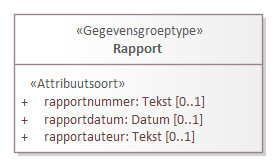
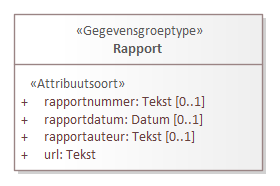
Conceptualmodel-MilieuhygienischbodemonderzoekSAD-0.2-1-20230126-20230627-064438

diff --git a/data/SAD-cat.msword.html b/data/SAD-cat.msword.html
@@ -15,7 +15,7 @@
    <body>
       <p>Conceptual model/Milieuhygienisch bodemonderzoek SAD/20230126</p>
       <p>Imvertor: 2.0.0</p>
-      <p>Model release: Conceptualmodel-MilieuhygienischbodemonderzoekSAD-0.2-1-20230126-20230626-140246</p>
+      <p>Model release: Conceptualmodel-MilieuhygienischbodemonderzoekSAD-0.2-1-20230126-20230627-064438</p>
       <hr>
       <section>
          <h1>Artikel 1 Definitie van registratieobject, entiteiten en attributen</h1>
@@ -74,7 +74,7 @@
             <h2>Entiteiten en attributen</h2>
             <section id=""><a class="anchor" id="graph_EAID_ABAADB49_C747_4775_A739_CC832CAD59F1"></a><a class="anchor" id="global_class_Model_Bodemonderzoek"></a><section id="global_class_Model_Bodemonderzoek">
                   <h3>   Bodemonderzoek</h3>
-                  <div class="imageinfo "><img src="Images/EAID_65BDD0DF_5A17_4756_8FD6_F029CE4A290E.png" usemap="#imagemap-EAID_65BDD0DF_5A17_4756_8FD6_F029CE4A290E" alt="Diagram "><map name="imagemap-EAID_65BDD0DF_5A17_4756_8FD6_F029CE4A290E"><area shape="rect" alt="AnalysemonsterGrondGemengd" coords="29,785,217,839" href="#graph_EAID_E7A3C99D_3348_4875_9BD5_4E0481E72C54"><area shape="rect" alt="Boring" coords="386,785,547,839" href="#graph_EAID_40FFF5B9_99C5_4c21_9D72_A3D1DD3C857F"><area shape="rect" alt="Registratieobject" coords="127,14,435,188" href="#graph_EAID_67DBE718_38E0_4ead_8649_72EA0B4A2355"><area shape="rect" alt="Rapport" coords="591,535,948,674" href="#graph_EAID_1A8201CD_7E4B_4216_916D_D3AEB7E30188"><area shape="rect" alt="Registratiegeschiedenis" coords="591,206,948,505" href="#graph_EAID_12E1A894_EB8E_4245_B745_ED1899B2A278"><area shape="rect" alt="Gestandaardiseerde locatie" coords="591,14,948,176" href="#graph_EAID_69CFF81C_3747_43f5_8293_34D1745DEB53"><area shape="rect" alt="Bodemonderzoek" coords="14,267,547,625" href="#graph_EAID_ABAADB49_C747_4775_A739_CC832CAD59F1"></map><p><b></b></p>
+                  <div class="imageinfo "><img src="Images/EAID_65BDD0DF_5A17_4756_8FD6_F029CE4A290E.png" usemap="#imagemap-EAID_65BDD0DF_5A17_4756_8FD6_F029CE4A290E" alt="Diagram "><map name="imagemap-EAID_65BDD0DF_5A17_4756_8FD6_F029CE4A290E"><area shape="rect" alt="AnalysemonsterGrondGemengd" coords="29,785,217,839" href="#graph_EAID_E7A3C99D_3348_4875_9BD5_4E0481E72C54"><area shape="rect" alt="Boring" coords="386,785,547,839" href="#graph_EAID_40FFF5B9_99C5_4c21_9D72_A3D1DD3C857F"><area shape="rect" alt="Registratieobject" coords="127,14,435,188" href="#graph_EAID_67DBE718_38E0_4ead_8649_72EA0B4A2355"><area shape="rect" alt="Rapport" coords="591,535,948,692" href="#graph_EAID_1A8201CD_7E4B_4216_916D_D3AEB7E30188"><area shape="rect" alt="Registratiegeschiedenis" coords="591,206,948,505" href="#graph_EAID_12E1A894_EB8E_4245_B745_ED1899B2A278"><area shape="rect" alt="Gestandaardiseerde locatie" coords="591,14,948,176" href="#graph_EAID_69CFF81C_3747_43f5_8293_34D1745DEB53"><area shape="rect" alt="Bodemonderzoek" coords="14,267,547,625" href="#graph_EAID_ABAADB49_C747_4775_A739_CC832CAD59F1"></map><p><b></b></p>
                   </div>
                   <table style="width: 100%;">
                      <colgroup style="width: 30%;"></colgroup>
@@ -886,7 +886,7 @@
                            </tr>
                         </tbody>
                      </table>
-                     </section><a class="anchor" id="detail_d101222e4608"></a><section id="detail_d101222e4608">
+                     </section><a class="anchor" id="detail_d101603e4608"></a><section id="detail_d101603e4608">
                      <h4>  registratiegeschiedenis</h4>
                      <table style="width: 100%;">
                         <colgroup style="width: 30%;"></colgroup>
@@ -919,7 +919,7 @@
                            </tr>
                         </tbody>
                      </table>
-                  </section><a class="anchor" id="detail_d101222e4793"></a><section id="detail_d101222e4793">
+                  </section><a class="anchor" id="detail_d101603e4793"></a><section id="detail_d101603e4793">
                      <h4>  gestandaardiseerde locatie bodemonderzoek</h4>
                      <table style="width: 100%;">
                         <colgroup style="width: 30%;"></colgroup>
@@ -962,7 +962,7 @@
                            </tr>
                         </tbody>
                      </table>
-                  </section><a class="anchor" id="detail_d101222e5027"></a><section id="detail_d101222e5027">
+                  </section><a class="anchor" id="detail_d101603e5027"></a><section id="detail_d101603e5027">
                      <h4>  rapport</h4>
                      <table style="width: 100%;">
                         <colgroup style="width: 30%;"></colgroup>
@@ -1813,7 +1813,7 @@
                      </section>
                </section><a class="anchor" id="graph_EAID_1A8201CD_7E4B_4216_916D_D3AEB7E30188"></a><a class="anchor" id="global_class_Model_Rapport"></a><section id="global_class_Model_Rapport">
                   <h3>   Rapport</h3>
-                  <div class="imageinfo "><img src="Images/EAID_DC463C82_956E_4dc7_B000_4976CD61ED1C.png" usemap="#imagemap-EAID_DC463C82_956E_4dc7_B000_4976CD61ED1C" alt="Diagram "><map name="imagemap-EAID_DC463C82_956E_4dc7_B000_4976CD61ED1C"><area shape="rect" alt="Rapport" coords="14,14,263,153" href="#graph_EAID_1A8201CD_7E4B_4216_916D_D3AEB7E30188"></map><p><b></b></p>
+                  <div class="imageinfo "><img src="Images/EAID_DC463C82_956E_4dc7_B000_4976CD61ED1C.png" usemap="#imagemap-EAID_DC463C82_956E_4dc7_B000_4976CD61ED1C" alt="Diagram "><map name="imagemap-EAID_DC463C82_956E_4dc7_B000_4976CD61ED1C"><area shape="rect" alt="Rapport" coords="14,14,263,171" href="#graph_EAID_1A8201CD_7E4B_4216_916D_D3AEB7E30188"></map><p><b></b></p>
                   </div>
                   <table style="width: 100%;">
                      <colgroup style="width: 30%;"></colgroup>
@@ -1975,6 +1975,35 @@
                                  <p>De gegevens die alle registratieobjecten gemeenschappelijk hebben zijn in het domeinmodel
                                     gegroepeerd in de entiteit Registratieobject</p>
                                  </td>
+                           </tr>
+                        </tbody>
+                     </table>
+                     </section><a class="anchor" id="detail_attribute_Model_Rapport_url"></a><section id="detail_attribute_Model_Rapport_url">
+                     <h4>  url</h4>
+                     
+                     <table style="width: 100%;">
+                        <colgroup style="width: 30%;"></colgroup>
+                        <colgroup style="width: 70%;"></colgroup>
+                        <tbody>
+                           <tr>
+                              <th>Type gegeven</th>
+                              <td>Attribuut van Rapport</td>
+                           </tr>
+                           <tr>
+                              <th>Juridische status</th>
+                              <td>Authentiek</td>
+                           </tr>
+                           <tr>
+                              <th>Kardinaliteit</th>
+                              <td>1</td>
+                           </tr>
+                           <tr>
+                              <th>Domein</th>
+                              <td></td>
+                           </tr>
+                           <tr>
+                              <th>&nbsp;&nbsp;Naam</th>
+                              <td>Tekst </td>
                            </tr>
                         </tbody>
                      </table>
@@ -2247,7 +2276,7 @@
                            </tr>
                         </tbody>
                      </table>
-                     </section><a class="anchor" id="detail_d101222e10155"></a><section id="detail_d101222e10155">
+                     </section><a class="anchor" id="detail_d101603e10274"></a><section id="detail_d101603e10274">
                      <h4>  aangeleverde verticale positie</h4>
                      <table style="width: 100%;">
                         <colgroup style="width: 30%;"></colgroup>
@@ -3161,7 +3190,7 @@
                            </tr>
                         </tbody>
                      </table>
-                     </section><a class="anchor" id="detail_d101222e13166"></a><section id="detail_d101222e13166">
+                     </section><a class="anchor" id="detail_d101603e13285"></a><section id="detail_d101603e13285">
                      <h4>  grond</h4>
                      <table style="width: 100%;">
                         <colgroup style="width: 30%;"></colgroup>
@@ -3203,7 +3232,7 @@
                            </tr>
                         </tbody>
                      </table>
-                  </section><a class="anchor" id="detail_d101222e13398"></a><section id="detail_d101222e13398">
+                  </section><a class="anchor" id="detail_d101603e13517"></a><section id="detail_d101603e13517">
                      <h4>  kleur</h4>
                      <table style="width: 100%;">
                         <colgroup style="width: 30%;"></colgroup>
@@ -3236,7 +3265,7 @@
                            </tr>
                         </tbody>
                      </table>
-                  </section><a class="anchor" id="detail_d101222e13583"></a><section id="detail_d101222e13583">
+                  </section><a class="anchor" id="detail_d101603e13702"></a><section id="detail_d101603e13702">
                      <h4>  bijzonder bestanddeel</h4>
                      <table style="width: 100%;">
                         <colgroup style="width: 30%;"></colgroup>
@@ -4723,7 +4752,7 @@
                            </tr>
                         </tbody>
                      </table>
-                     </section><a class="anchor" id="detail_d101222e19506"></a><section id="detail_d101222e19506">
+                     </section><a class="anchor" id="detail_d101603e19625"></a><section id="detail_d101603e19625">
                      <h4>  aangeleverde verticale positie</h4>
                      <table style="width: 100%;">
                         <colgroup style="width: 30%;"></colgroup>
@@ -4820,8 +4849,7 @@
                            <td>
                               
                               <p>Het deel van het milieuhygiënisch bodemonderzoek dat betrekking heeft op de monstername
-                                 van het grondwater en het in het veld uitvoeren van metingen die de toestand van het
-                                 grondwater en de samenstelling ervan karakteriseren.</p>
+                                 van het grondwater.</p>
                               </td>
                         </tr>
                      </tbody>
@@ -5155,7 +5183,7 @@
                            </tr>
                         </tbody>
                      </table>
-                     </section><a class="anchor" id="detail_d101222e21167"></a><section id="detail_d101222e21167">
+                     </section><a class="anchor" id="detail_d101603e21286"></a><section id="detail_d101603e21286">
                      <h4>  kleur</h4>
                      <table style="width: 100%;">
                         <colgroup style="width: 30%;"></colgroup>

diff --git a/data/SAD-cat.respec.html b/data/SAD-cat.respec.html
@@ -50,7 +50,7 @@
    <section id="">
       <h2>Entiteittypen en attributen   </h2><a class="anchor" id="graph_EAID_ABAADB49_C747_4775_A739_CC832CAD59F1"></a><a class="anchor" id="global_class_Model_Bodemonderzoek"></a><section id="global_class_Model_Bodemonderzoek">
          <h3>   Bodemonderzoek</h3>
-         <div class="imageinfo "><img src="data/Images/EAID_65BDD0DF_5A17_4756_8FD6_F029CE4A290E.png" usemap="#imagemap-EAID_65BDD0DF_5A17_4756_8FD6_F029CE4A290E" alt="Diagram "><map name="imagemap-EAID_65BDD0DF_5A17_4756_8FD6_F029CE4A290E"><area shape="rect" alt="AnalysemonsterGrondGemengd" coords="29,785,217,839" href="#graph_EAID_E7A3C99D_3348_4875_9BD5_4E0481E72C54"><area shape="rect" alt="Boring" coords="386,785,547,839" href="#graph_EAID_40FFF5B9_99C5_4c21_9D72_A3D1DD3C857F"><area shape="rect" alt="Registratieobject" coords="127,14,435,188" href="#graph_EAID_67DBE718_38E0_4ead_8649_72EA0B4A2355"><area shape="rect" alt="Rapport" coords="591,535,948,674" href="#graph_EAID_1A8201CD_7E4B_4216_916D_D3AEB7E30188"><area shape="rect" alt="Registratiegeschiedenis" coords="591,206,948,505" href="#graph_EAID_12E1A894_EB8E_4245_B745_ED1899B2A278"><area shape="rect" alt="Gestandaardiseerde locatie" coords="591,14,948,176" href="#graph_EAID_69CFF81C_3747_43f5_8293_34D1745DEB53"><area shape="rect" alt="Bodemonderzoek" coords="14,267,547,625" href="#graph_EAID_ABAADB49_C747_4775_A739_CC832CAD59F1"></map><p><b></b></p>
+         <div class="imageinfo "><img src="data/Images/EAID_65BDD0DF_5A17_4756_8FD6_F029CE4A290E.png" usemap="#imagemap-EAID_65BDD0DF_5A17_4756_8FD6_F029CE4A290E" alt="Diagram "><map name="imagemap-EAID_65BDD0DF_5A17_4756_8FD6_F029CE4A290E"><area shape="rect" alt="AnalysemonsterGrondGemengd" coords="29,785,217,839" href="#graph_EAID_E7A3C99D_3348_4875_9BD5_4E0481E72C54"><area shape="rect" alt="Boring" coords="386,785,547,839" href="#graph_EAID_40FFF5B9_99C5_4c21_9D72_A3D1DD3C857F"><area shape="rect" alt="Registratieobject" coords="127,14,435,188" href="#graph_EAID_67DBE718_38E0_4ead_8649_72EA0B4A2355"><area shape="rect" alt="Rapport" coords="591,535,948,692" href="#graph_EAID_1A8201CD_7E4B_4216_916D_D3AEB7E30188"><area shape="rect" alt="Registratiegeschiedenis" coords="591,206,948,505" href="#graph_EAID_12E1A894_EB8E_4245_B745_ED1899B2A278"><area shape="rect" alt="Gestandaardiseerde locatie" coords="591,14,948,176" href="#graph_EAID_69CFF81C_3747_43f5_8293_34D1745DEB53"><area shape="rect" alt="Bodemonderzoek" coords="14,267,547,625" href="#graph_EAID_ABAADB49_C747_4775_A739_CC832CAD59F1"></map><p><b></b></p>
          </div>
          <table style="width: 100%;">
             <colgroup style="width: 30%;"></colgroup>
@@ -862,7 +862,7 @@
                   </tr>
                </tbody>
             </table>
-            </section><a class="anchor" id="detail_d101222e4608"></a><section id="detail_d101222e4608">
+            </section><a class="anchor" id="detail_d101603e4608"></a><section id="detail_d101603e4608">
             <h4>  registratiegeschiedenis</h4>
             <table style="width: 100%;">
                <colgroup style="width: 30%;"></colgroup>
@@ -895,7 +895,7 @@
                   </tr>
                </tbody>
             </table>
-         </section><a class="anchor" id="detail_d101222e4793"></a><section id="detail_d101222e4793">
+         </section><a class="anchor" id="detail_d101603e4793"></a><section id="detail_d101603e4793">
             <h4>  gestandaardiseerde locatie bodemonderzoek</h4>
             <table style="width: 100%;">
                <colgroup style="width: 30%;"></colgroup>
@@ -938,7 +938,7 @@
                   </tr>
                </tbody>
             </table>
-         </section><a class="anchor" id="detail_d101222e5027"></a><section id="detail_d101222e5027">
+         </section><a class="anchor" id="detail_d101603e5027"></a><section id="detail_d101603e5027">
             <h4>  rapport</h4>
             <table style="width: 100%;">
                <colgroup style="width: 30%;"></colgroup>
@@ -1789,7 +1789,7 @@
             </section>
       </section><a class="anchor" id="graph_EAID_1A8201CD_7E4B_4216_916D_D3AEB7E30188"></a><a class="anchor" id="global_class_Model_Rapport"></a><section id="global_class_Model_Rapport">
          <h3>   Rapport</h3>
-         <div class="imageinfo "><img src="data/Images/EAID_DC463C82_956E_4dc7_B000_4976CD61ED1C.png" usemap="#imagemap-EAID_DC463C82_956E_4dc7_B000_4976CD61ED1C" alt="Diagram "><map name="imagemap-EAID_DC463C82_956E_4dc7_B000_4976CD61ED1C"><area shape="rect" alt="Rapport" coords="14,14,263,153" href="#graph_EAID_1A8201CD_7E4B_4216_916D_D3AEB7E30188"></map><p><b></b></p>
+         <div class="imageinfo "><img src="data/Images/EAID_DC463C82_956E_4dc7_B000_4976CD61ED1C.png" usemap="#imagemap-EAID_DC463C82_956E_4dc7_B000_4976CD61ED1C" alt="Diagram "><map name="imagemap-EAID_DC463C82_956E_4dc7_B000_4976CD61ED1C"><area shape="rect" alt="Rapport" coords="14,14,263,171" href="#graph_EAID_1A8201CD_7E4B_4216_916D_D3AEB7E30188"></map><p><b></b></p>
          </div>
          <table style="width: 100%;">
             <colgroup style="width: 30%;"></colgroup>
@@ -1951,6 +1951,35 @@
                         <p>De gegevens die alle registratieobjecten gemeenschappelijk hebben zijn in het domeinmodel
                            gegroepeerd in de entiteit Registratieobject</p>
                         </td>
+                  </tr>
+               </tbody>
+            </table>
+            </section><a class="anchor" id="detail_attribute_Model_Rapport_url"></a><section id="detail_attribute_Model_Rapport_url">
+            <h4>  url</h4>
+            
+            <table style="width: 100%;">
+               <colgroup style="width: 30%;"></colgroup>
+               <colgroup style="width: 70%;"></colgroup>
+               <tbody>
+                  <tr>
+                     <th>Type gegeven</th>
+                     <td>Attribuut van Rapport</td>
+                  </tr>
+                  <tr>
+                     <th>Juridische status</th>
+                     <td>Authentiek</td>
+                  </tr>
+                  <tr>
+                     <th>Kardinaliteit</th>
+                     <td>1</td>
+                  </tr>
+                  <tr>
+                     <th>Domein</th>
+                     <td></td>
+                  </tr>
+                  <tr>
+                     <th>&nbsp;&nbsp;Naam</th>
+                     <td>Tekst </td>
                   </tr>
                </tbody>
             </table>
@@ -2223,7 +2252,7 @@
                   </tr>
                </tbody>
             </table>
-            </section><a class="anchor" id="detail_d101222e10155"></a><section id="detail_d101222e10155">
+            </section><a class="anchor" id="detail_d101603e10274"></a><section id="detail_d101603e10274">
             <h4>  aangeleverde verticale positie</h4>
             <table style="width: 100%;">
                <colgroup style="width: 30%;"></colgroup>
@@ -3137,7 +3166,7 @@
                   </tr>
                </tbody>
             </table>
-            </section><a class="anchor" id="detail_d101222e13166"></a><section id="detail_d101222e13166">
+            </section><a class="anchor" id="detail_d101603e13285"></a><section id="detail_d101603e13285">
             <h4>  grond</h4>
             <table style="width: 100%;">
                <colgroup style="width: 30%;"></colgroup>
@@ -3179,7 +3208,7 @@
                   </tr>
                </tbody>
             </table>
-         </section><a class="anchor" id="detail_d101222e13398"></a><section id="detail_d101222e13398">
+         </section><a class="anchor" id="detail_d101603e13517"></a><section id="detail_d101603e13517">
             <h4>  kleur</h4>
             <table style="width: 100%;">
                <colgroup style="width: 30%;"></colgroup>
@@ -3212,7 +3241,7 @@
                   </tr>
                </tbody>
             </table>
-         </section><a class="anchor" id="detail_d101222e13583"></a><section id="detail_d101222e13583">
+         </section><a class="anchor" id="detail_d101603e13702"></a><section id="detail_d101603e13702">
             <h4>  bijzonder bestanddeel</h4>
             <table style="width: 100%;">
                <colgroup style="width: 30%;"></colgroup>
@@ -4699,7 +4728,7 @@
                   </tr>
                </tbody>
             </table>
-            </section><a class="anchor" id="detail_d101222e19506"></a><section id="detail_d101222e19506">
+            </section><a class="anchor" id="detail_d101603e19625"></a><section id="detail_d101603e19625">
             <h4>  aangeleverde verticale positie</h4>
             <table style="width: 100%;">
                <colgroup style="width: 30%;"></colgroup>
@@ -4796,8 +4825,7 @@
                   <td>
                      
                      <p>Het deel van het milieuhygiënisch bodemonderzoek dat betrekking heeft op de monstername
-                        van het grondwater en het in het veld uitvoeren van metingen die de toestand van het
-                        grondwater en de samenstelling ervan karakteriseren.</p>
+                        van het grondwater.</p>
                      </td>
                </tr>
             </tbody>
@@ -5131,7 +5159,7 @@
                   </tr>
                </tbody>
             </table>
-            </section><a class="anchor" id="detail_d101222e21167"></a><section id="detail_d101222e21167">
+            </section><a class="anchor" id="detail_d101603e21286"></a><section id="detail_d101603e21286">
             <h4>  kleur</h4>
             <table style="width: 100%;">
                <colgroup style="width: 30%;"></colgroup>
